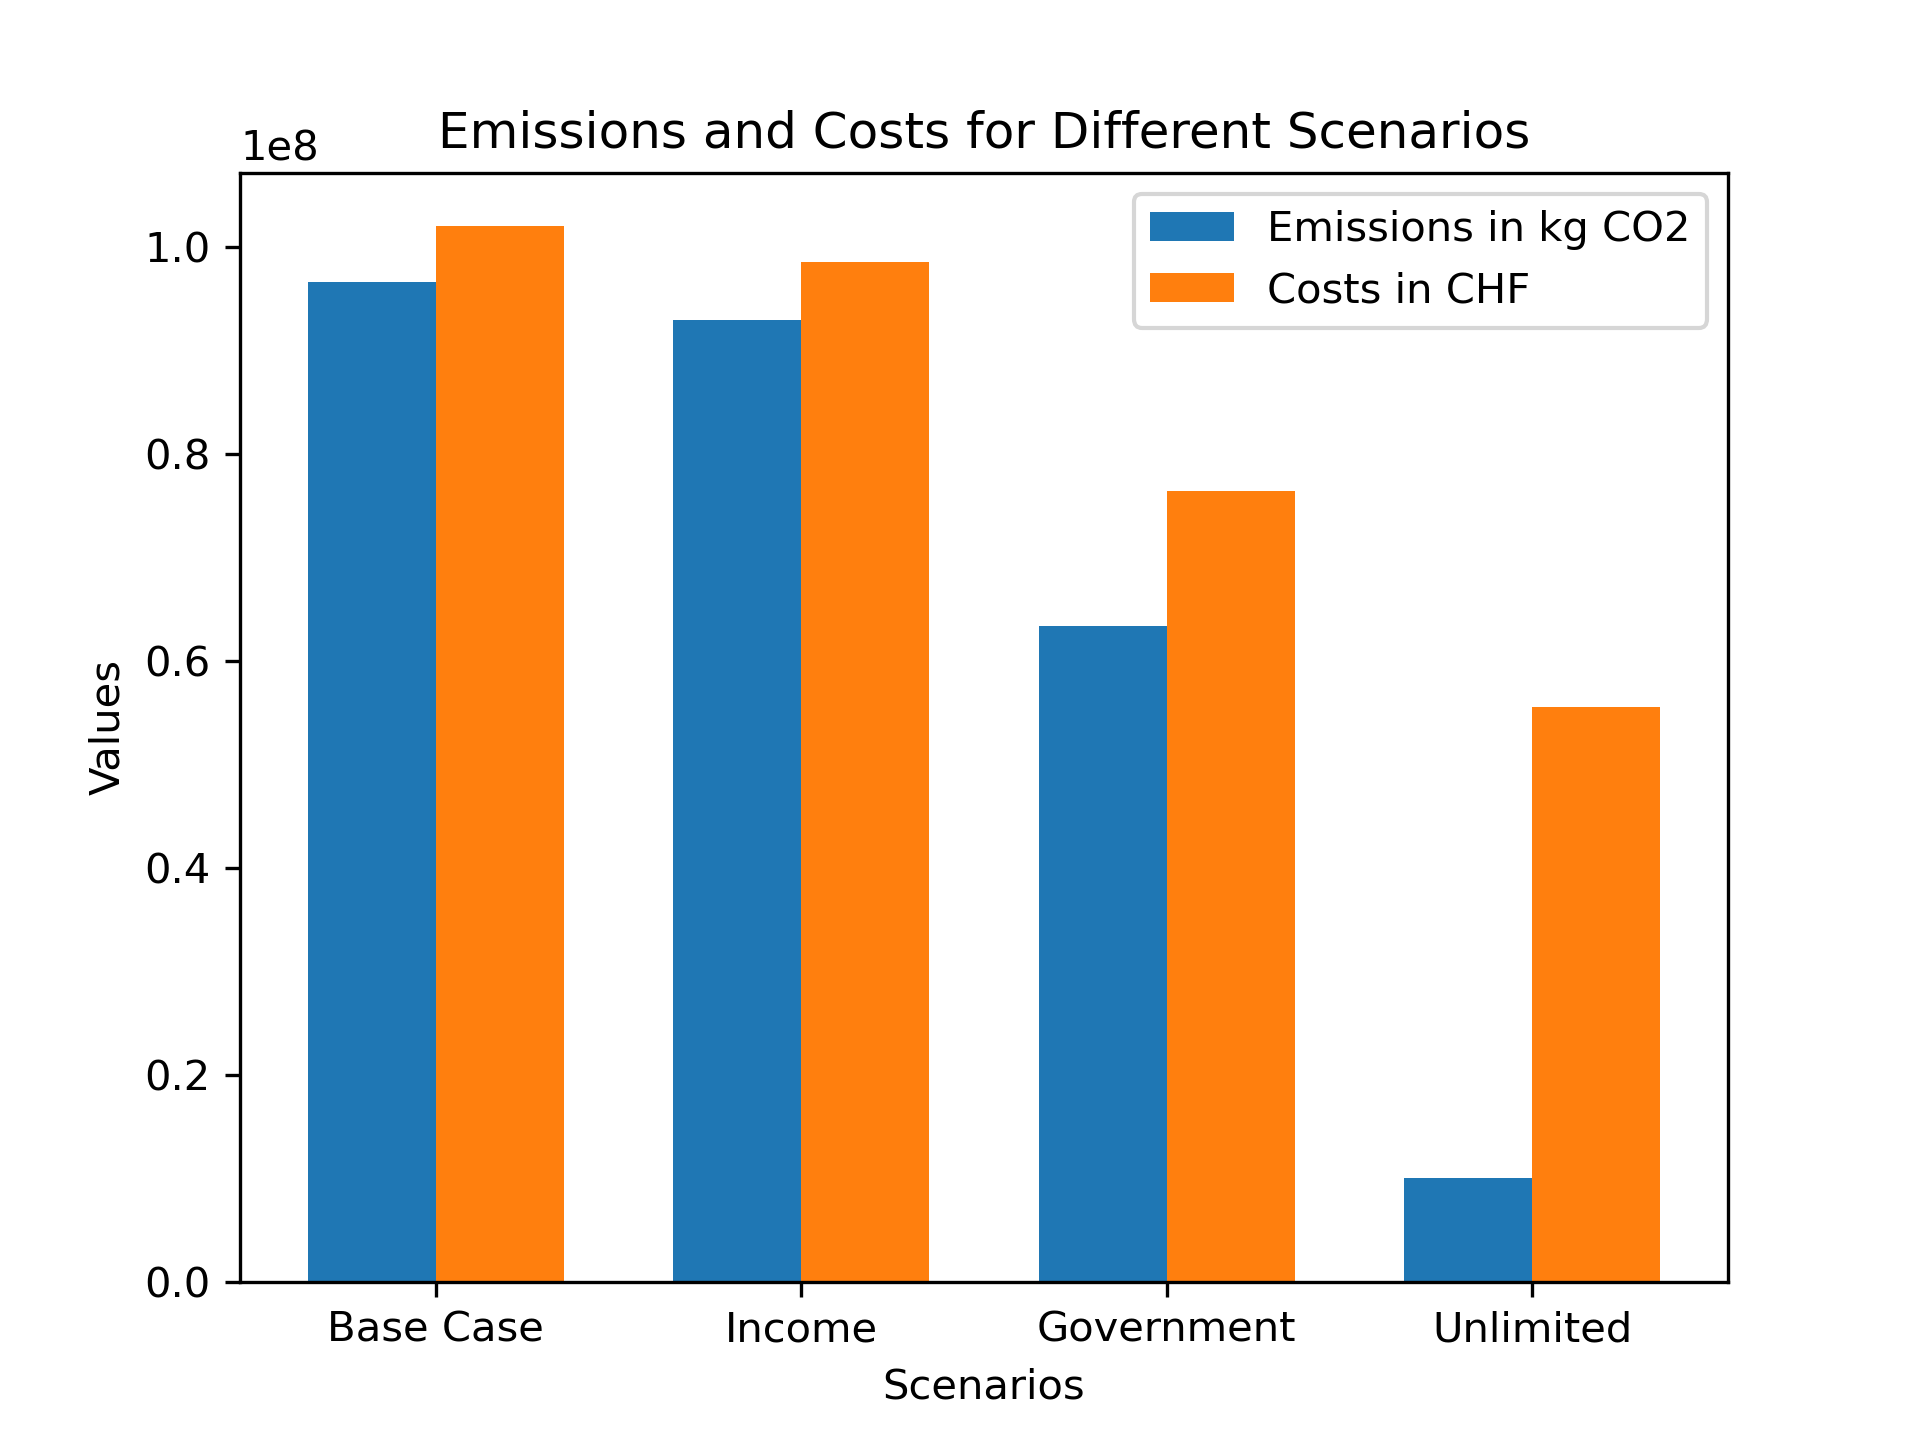
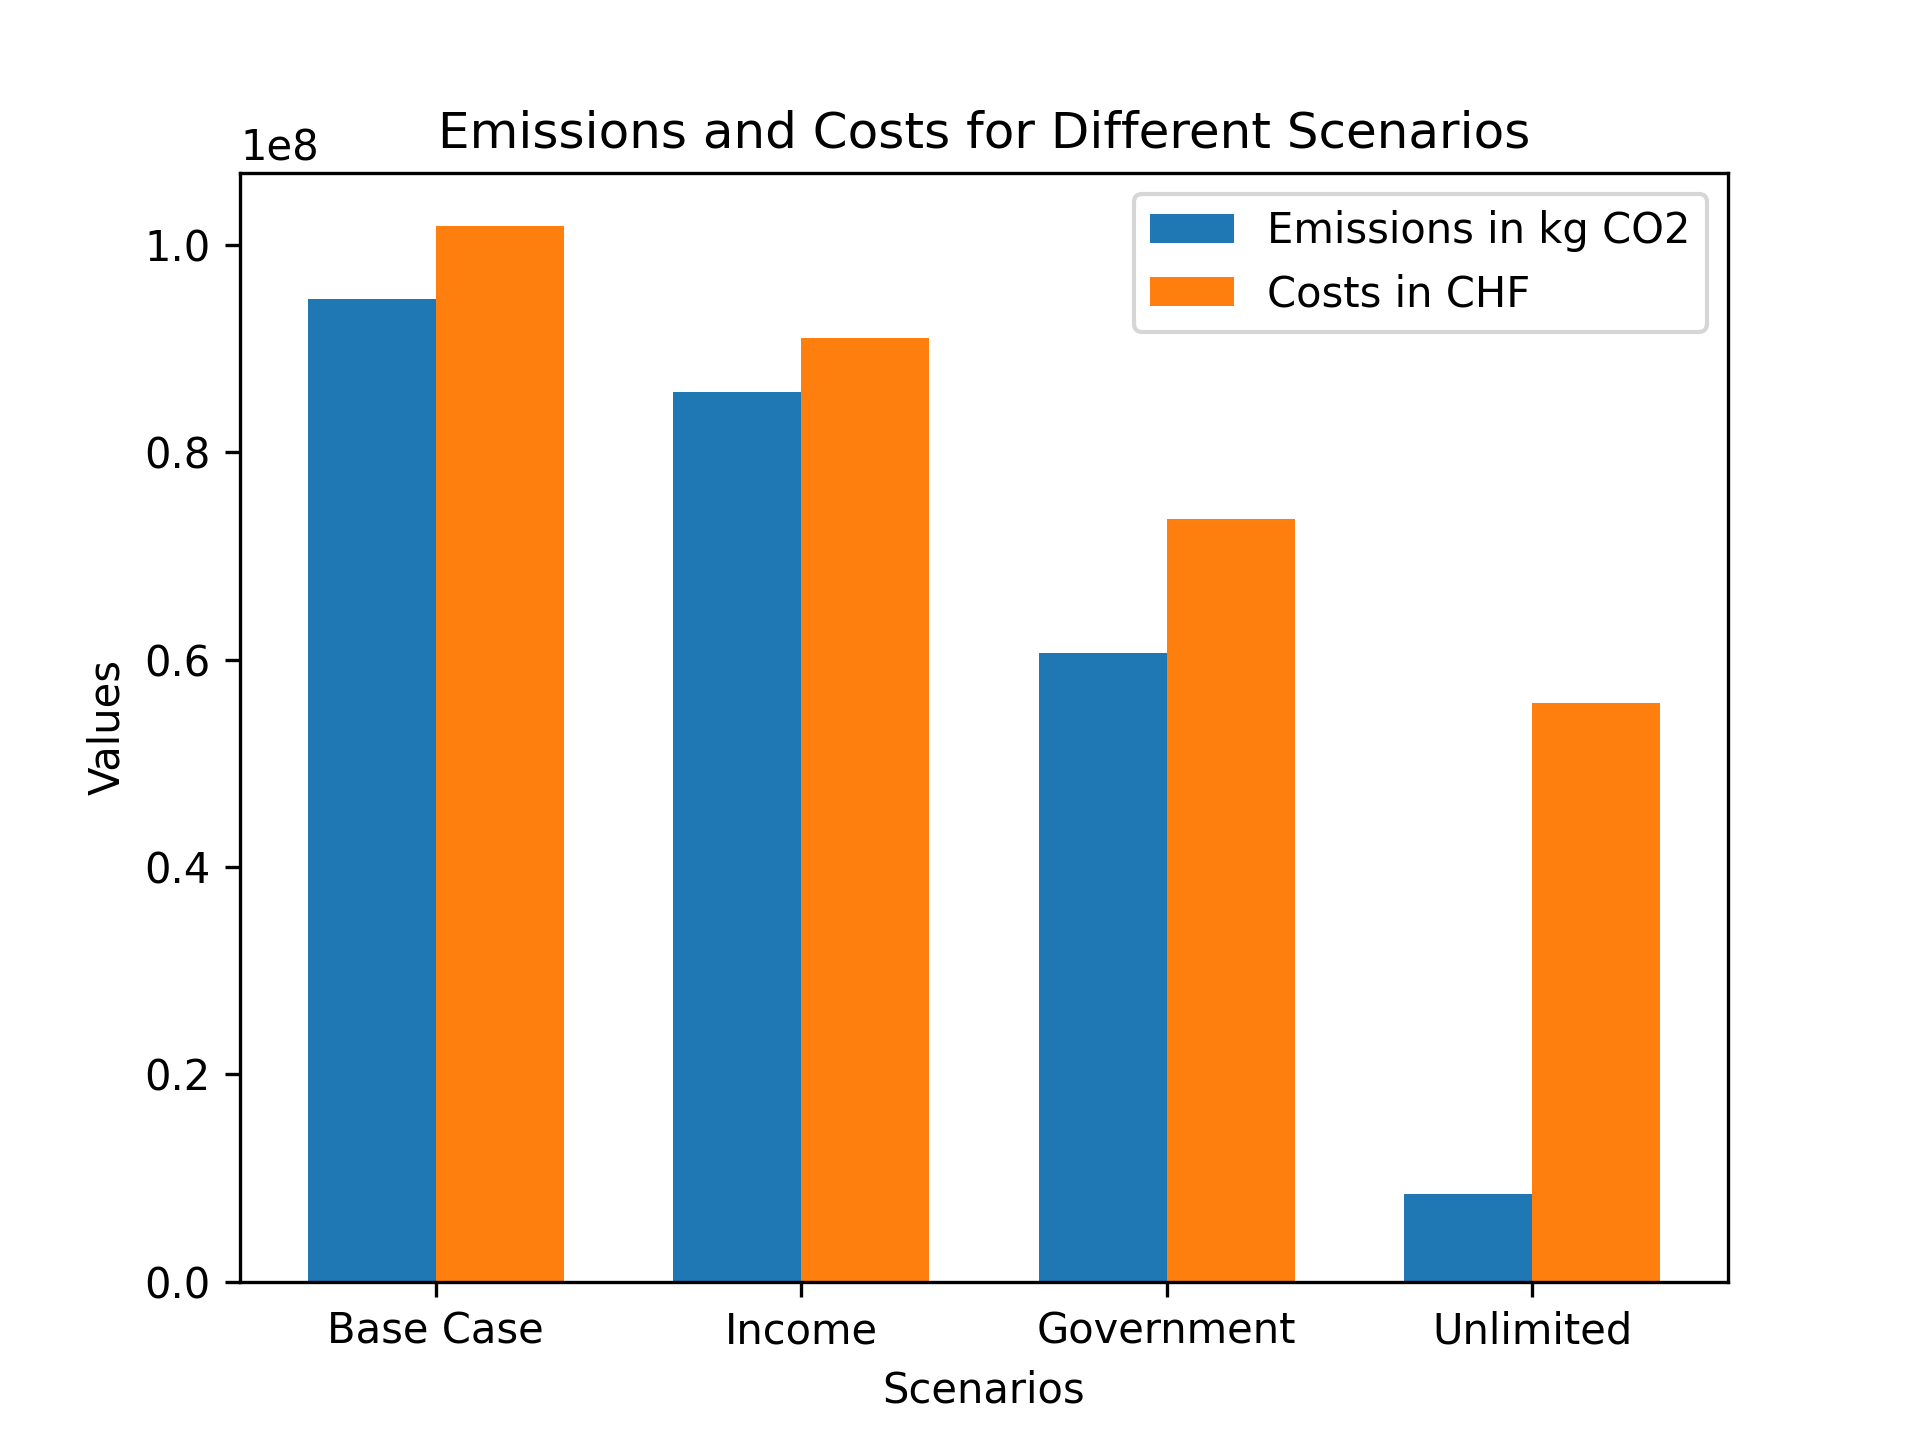
Hopefully final version

diff --git a/EnergyHub.py b/EnergyHub.py
@@ -27,8 +27,8 @@ import data_import
 #Help functions
 def pie_plot_production(name):
     # Energy sources and their respective production values
-    energy_sources = ['Solar', 'Natural Gas', 'HeatPump', 'Grid']
-    production_values = [P_out_pv.value.sum(), P_out_gb.value.sum(), P_out_gshp.value.sum(), Imp_elec.value.sum()]
+    energy_sources = ['Solar', 'Natural Gas','CHP','HeatPump', 'Grid']
+    production_values = [P_out_pv.value.sum(), P_out_gb.value.sum(), P_out_heat_chp.value.sum()+P_out_elec_chp.value.sum() , P_out_gshp.value.sum(), Imp_elec.value.sum()]
 
     # Creating the pie plot
     plt.figure(figsize=(8, 8))
@@ -42,8 +42,8 @@ def pie_plot_production(name):
 
 def pie_plot_capacity(name):
     # Energy sources and their respective production values
-    energy_sources = ['Solar', 'Natural Gas', 'HeatPump', 'Battery', 'Heat Storage']
-    production_values = [Cap_pv.value.sum(), Cap_gb.value.sum(),Cap_gshp.value.sum(), Cap_bat.value.sum(), Cap_ts.value.sum()]
+    energy_sources = ['Solar', 'Natural Gas','CHP' ,'HeatPump', 'Battery', 'Heat Storage']
+    production_values = [Cap_pv.value.sum(), Cap_gb.value.sum(),Cap_chp.value.sum(),Cap_gshp.value.sum(), Cap_bat.value.sum(), Cap_ts.value.sum()]
 
     # Filter out energy sources with production values of zero
     filtered_sources = []
@@ -87,7 +87,14 @@ IMPORT FINISH
 # Renewable energy potentials
 # ============================
 #solar = pd.read_excel('solar.xlsx', header=None, names=['Solar radiation [kWh/m2]'])
-solar = pd.read_csv('solar.csv', delimiter=',', comment='#')['swgdn']*0.001 # in kWh/m2
+solar = pd.read_csv('maruas_solar.csv', delimiter=',', comment='#')['swgdn']*0.001 # in kWh/m2
+solar_header = solar.head(4)
+solar.drop(solar.index[:4], inplace=True)
+both_solar = [solar, solar_header]
+solar = pd.concat(both_solar, ignore_index=True)
+assert len(solar) == 8760
+
+
 wind = pd.read_excel('wind.xlsx', header=None, names=['Wind speed [m/s]'])
 
 # Optimization horizon
@@ -251,7 +258,7 @@ for t in np.arange(0, 8760):
         wind_con = wind_con + [P_out_wind[t] == Cap_wind * (wind.loc[t, 'Wind speed [m/s]'] - cut_in_wind_speed) / (
                     rated_wind_speed - cut_in_wind_speed)]
 
-# Thermal storage tank  --> not considered
+# Thermal storage tank
 # =====================
 
 # Definitions
@@ -276,7 +283,7 @@ E_ts = cp.Variable(Horizon + 1)  # Stored energy in thermal storage tank [kWh]
 
 # Storage tank constraints
 # ------------------------
-ts_con_1 = [Cap_ts == 0, Q_in_ts >= 0, Q_out_ts >= 0, E_ts >= 0, E_ts <= Cap_ts, Q_in_ts <= max_ch_ts * Cap_ts,
+ts_con_1 = [Cap_ts >= 0, Q_in_ts >= 0, Q_out_ts >= 0, E_ts >= 0, E_ts <= Cap_ts, Q_in_ts <= max_ch_ts * Cap_ts,
             Q_out_ts <= max_dis_ts * Cap_ts]
 
 # Storage constraints
@@ -439,8 +446,7 @@ plt.show()
 
 
 
-"""
-"""
+
 #Multiobjective Optimization -> cost and jobs
 eta = [i/10 for i in range(1,10,1)]
 sol_cost = []
@@ -486,8 +492,7 @@ with open(file_name, 'w', newline='') as csvfile:
     writer.writerows(zip(list(sol_jobs), sol_cost))  # Writing data rows
 
 print("Data has been successfully saved to", file_name)
-"""
-"""
+
 # Plotting
 sol_jobs = pd.read_csv('jobs_costs_data.csv')['Jobs']
 sol_cost = pd.read_csv('jobs_costs_data.csv')['Costs']
@@ -509,8 +514,7 @@ plt.grid(True)
 plt.savefig('jobs_vs_cost.png', dpi=300)
 plt.show()
 
-"""
-"""
+
 #Investment Analysis
 #Parameters
 annual_income_per_persom = 155*12 #Income per person per year [US Dollar] # in CHF: 155*12; in USD: 170*12
@@ -522,6 +526,7 @@ Inv_bound = [inv_base_case,annual_income_per_persom*percentage_invest*population
 
 inv_sol_cost = []
 inv_sol_co2 = []
+inv_sol_jobs = []
 
 for bound in Inv_bound:
     print('Investment Analysis with bound = ', bound)
@@ -532,12 +537,14 @@ for bound in Inv_bound:
     prob.solve(solver='SCIPY')
     inv_sol_cost.append(cost.value)
     inv_sol_co2.append(co2.value)
+    inv_sol_jobs.append(jobs.value[0])
 
 #unlimited investment
 prob = cp.Problem(cp.Minimize(cost), constraints)
 prob.solve(solver='SCIPY')
 inv_sol_cost.append(cost.value)
 inv_sol_co2.append(co2.value)
+inv_sol_jobs.append(jobs.value)
 
 
 print(inv_sol_co2)
@@ -554,15 +561,28 @@ with open(file_name, 'w', newline='') as csvfile:
 
 print("Data has been successfully saved to", file_name)
 
+file_name = "investment_jobs_data.csv"
+
+# Writing data to CSV file
+with open(file_name, 'w', newline='') as csvfile:
+    writer = csv.writer(csvfile)
+    writer.writerow(["Jobs", "Costs"])  # Writing header
+    writer.writerows(zip(list(inv_sol_jobs), inv_sol_cost))  # Writing data rows
+
+print("Data has been successfully saved to", file_name)
+
 # Plotting
 inv_sol_co2 = pd.read_csv('investment_costs_data.csv')['Emissions (kg)']
 inv_sol_cost = pd.read_csv('investment_costs_data.csv')['Costs']
+inv_sol_jobs = pd.read_csv('investment_jobs_data.csv')['Jobs']
 
 #PLot
 # Sample data (replace with your actual data)
 scenarios = ['Base Case', 'Income', 'Government', 'Unlimited']
 emissions = list(inv_sol_co2)  # Emissions in kg
-costs = list([float(x[1:-1]) for x in inv_sol_cost])  # Costs in some currency
+costs = list([float(x[1:-1]) for x in inv_sol_cost])
+jobs_created = list([float(x) for x in inv_sol_jobs[0:-1]])
+jobs_created+=[float(inv_sol_jobs[3][1:-1])]
 
 # Setting up positions for the bars
 x = np.arange(len(scenarios))  # the scenario locations
@@ -575,14 +595,6 @@ bars1 = ax.bar(x - width/2, emissions, width, label='Emissions in kg CO2')
 # Plotting costs
 bars2 = ax.bar(x + width/2, costs, width, label='Costs in CHF')
 
-
-
-
-
-
-
-
-
 # Adding labels and title
 ax.set_xlabel('Scenarios')
 ax.set_ylabel('Values')
@@ -593,6 +605,40 @@ ax.legend()
 
 # Show plot
 plt.savefig("investment.png",dpi=300)
+plt.show()
+
+#PLot with Jobs created
+
+# Setting up positions for the bars
+x = np.arange(len(scenarios))  # the scenario locations
+width = 0.2  # the width of the bars
+
+# Plotting emissions
+fig, ax = plt.subplots()
+bars1 = ax.bar(x - width, emissions, width, label='Emissions in kg CO2')
+
+# Plotting costs
+bars2 = ax.bar(x, costs, width, label='Costs in CHF')
+
+# Plotting jobs created (using a secondary y-axis)
+ax2 = ax.twinx()
+bars3 = ax2.bar(x + width, jobs_created, width, color='orange', label='Jobs Created')
+
+# Adding labels and title
+ax.set_xlabel('Scenarios')
+ax.set_ylabel('Emissions and Costs')
+ax2.set_ylabel('Jobs Created')
+ax.set_title('Emissions, Costs, and Jobs Created for Different Scenarios')
+ax.set_xticks(x)
+ax.set_xticklabels(scenarios)
+# Positioning legends
+ax.legend(loc='upper center', bbox_to_anchor=(0.67, 1))
+ax2.legend(loc='upper center', bbox_to_anchor=(0.32, 1))
+
+
+# Show plot
+plt.tight_layout()  # Adjust layout to prevent overlapping labels
+plt.savefig("investment_with_jobs.png", dpi=300)
 plt.show()
 
 # Output objective function value

diff --git a/data_import.py b/data_import.py
@@ -25,10 +25,10 @@ def get_data():
     both = [heat, header]
     heat = pd.concat(both, ignore_index=True)
     
-    heat = heat * 1000 * 4  # in kWh
-    print(heat.mean())
+    heat = heat * 1000 * 1.5  # in kWh (1.5 is a scaling factor)
+    #print(heat.mean())
     
-    print(elec.mean())
+    #print(elec.mean())
     assert len(elec) == 8760 and len(heat) == 8760
     return np.array(elec), np.array(heat)
 
